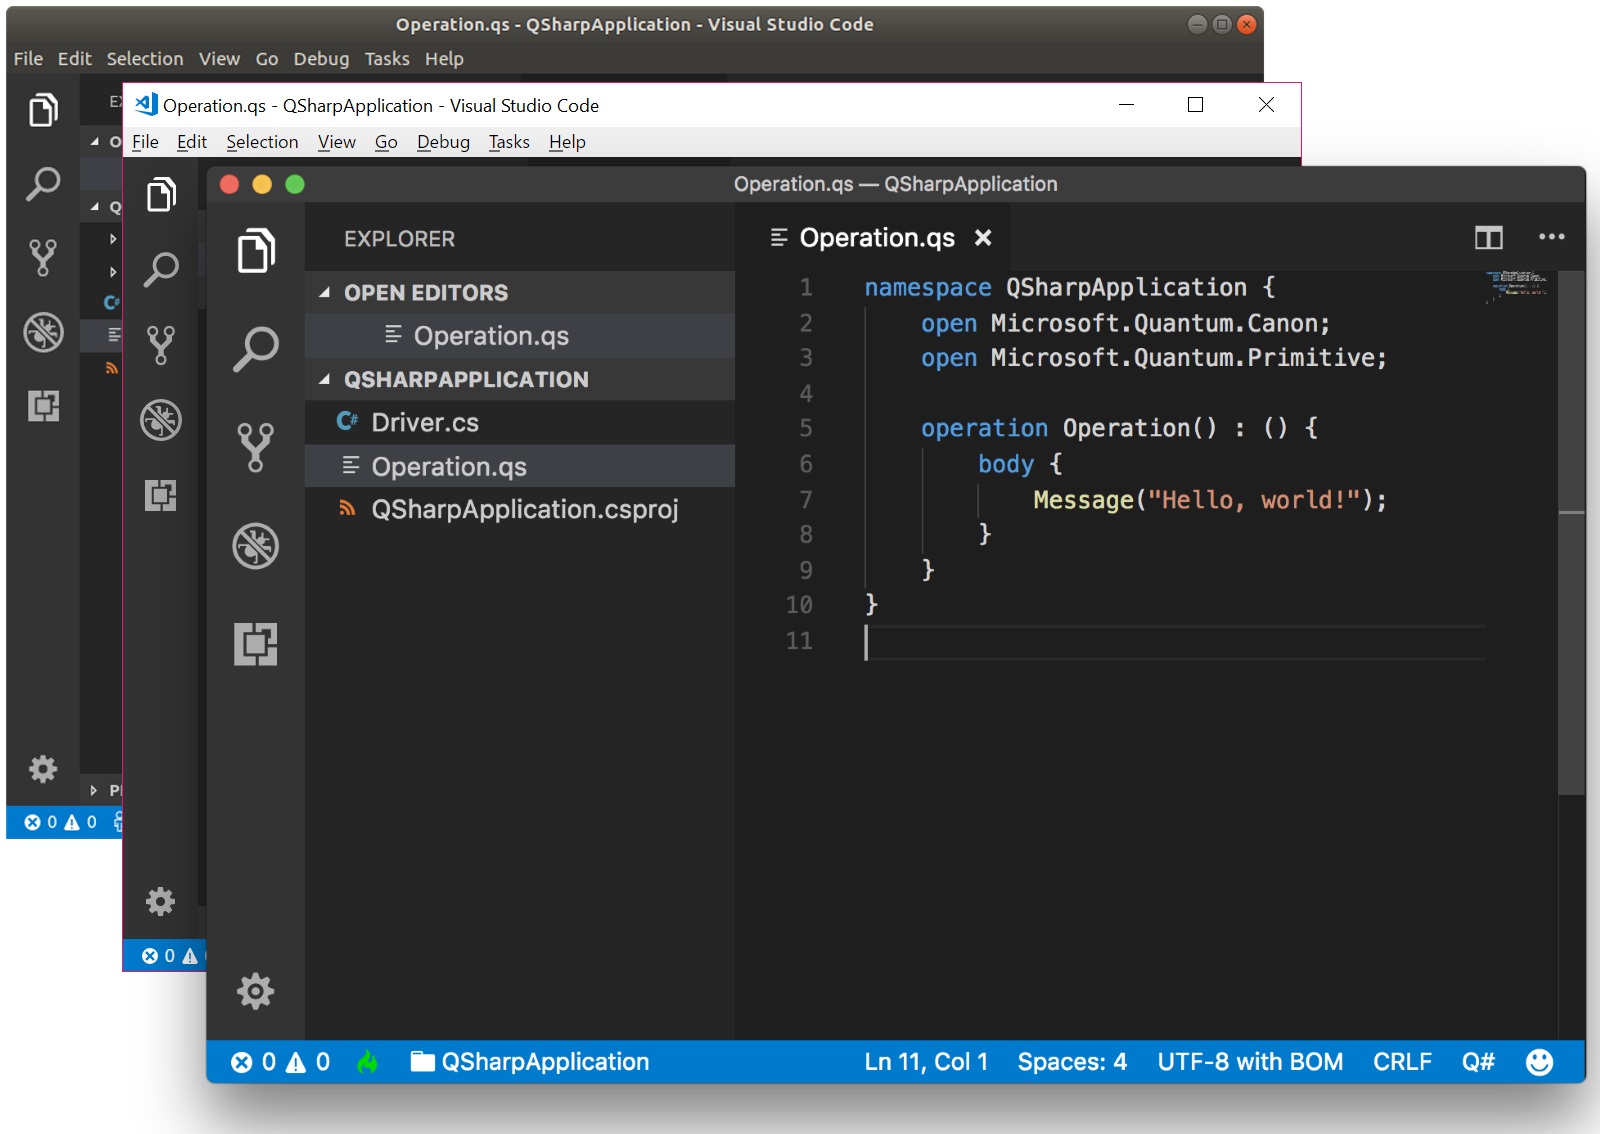
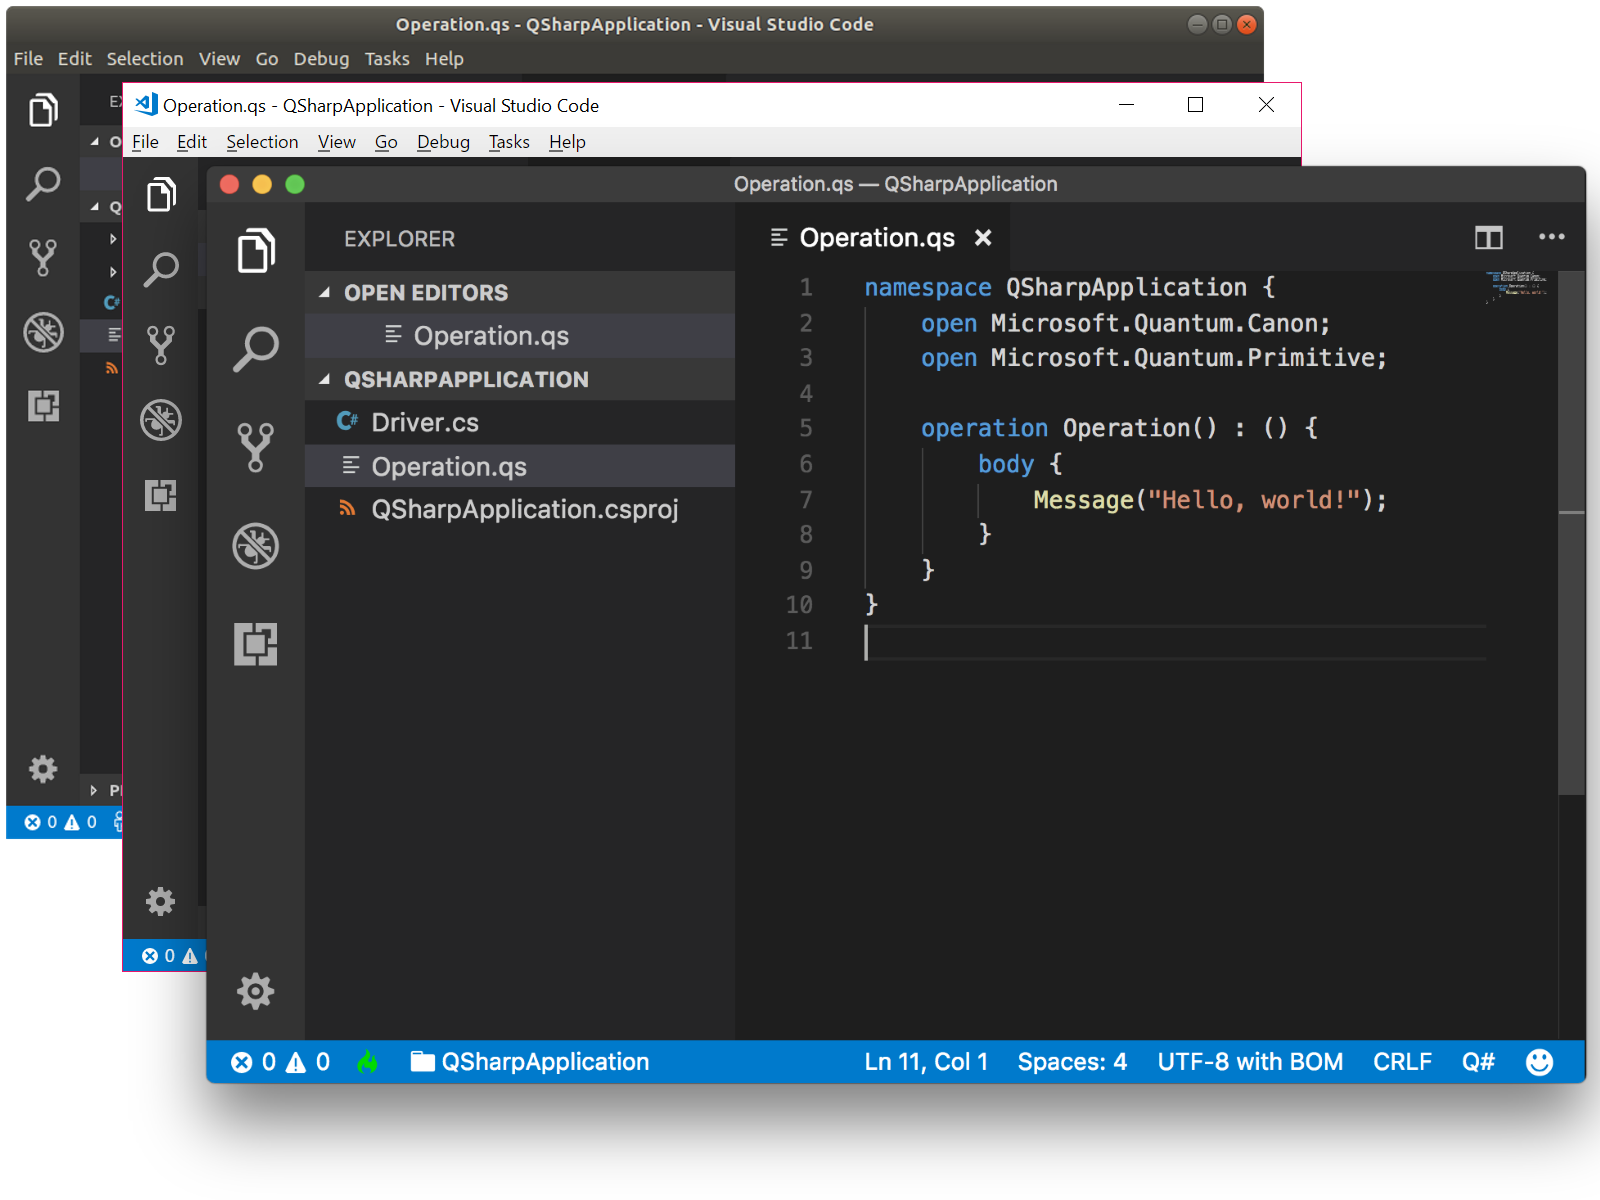
Extended to make room for dropshadow, enlarged screenshots.

diff --git a/articles/quantum-InstallConfig.md b/articles/quantum-InstallConfig.md
@@ -19,14 +19,14 @@ The Quantum Development Kit can be used either with the Visual Studio 2017 integ
 <table>
 <tr>
 <td>
-[<img src="media/install-guide-select-vs-2017.png" width="80%">](xref:microsoft.quantum.install.vs-2017)
+[<img src="media/install-guide-select-vs-2017.png" width="90%">](xref:microsoft.quantum.install.vs-2017)
 <div class="nextstepaction">
 [Install for Visual Studio 2017 on Windows 10](xref:microsoft.quantum.install.vs-2017)
 </div>
 </td>
 
 <td>
-[<img src="media/install-guide-select-vs-code.png" width="80%">](xref:microsoft.quantum.install.vs-code)
+[<img src="media/install-guide-select-vs-code.png" width="90%">](xref:microsoft.quantum.install.vs-code)
 <div class="nextstepaction">
 [Install for Visual Studio Code on Windows 10, macOS, or Linux](xref:microsoft.quantum.install.vs-code)
 </div>
